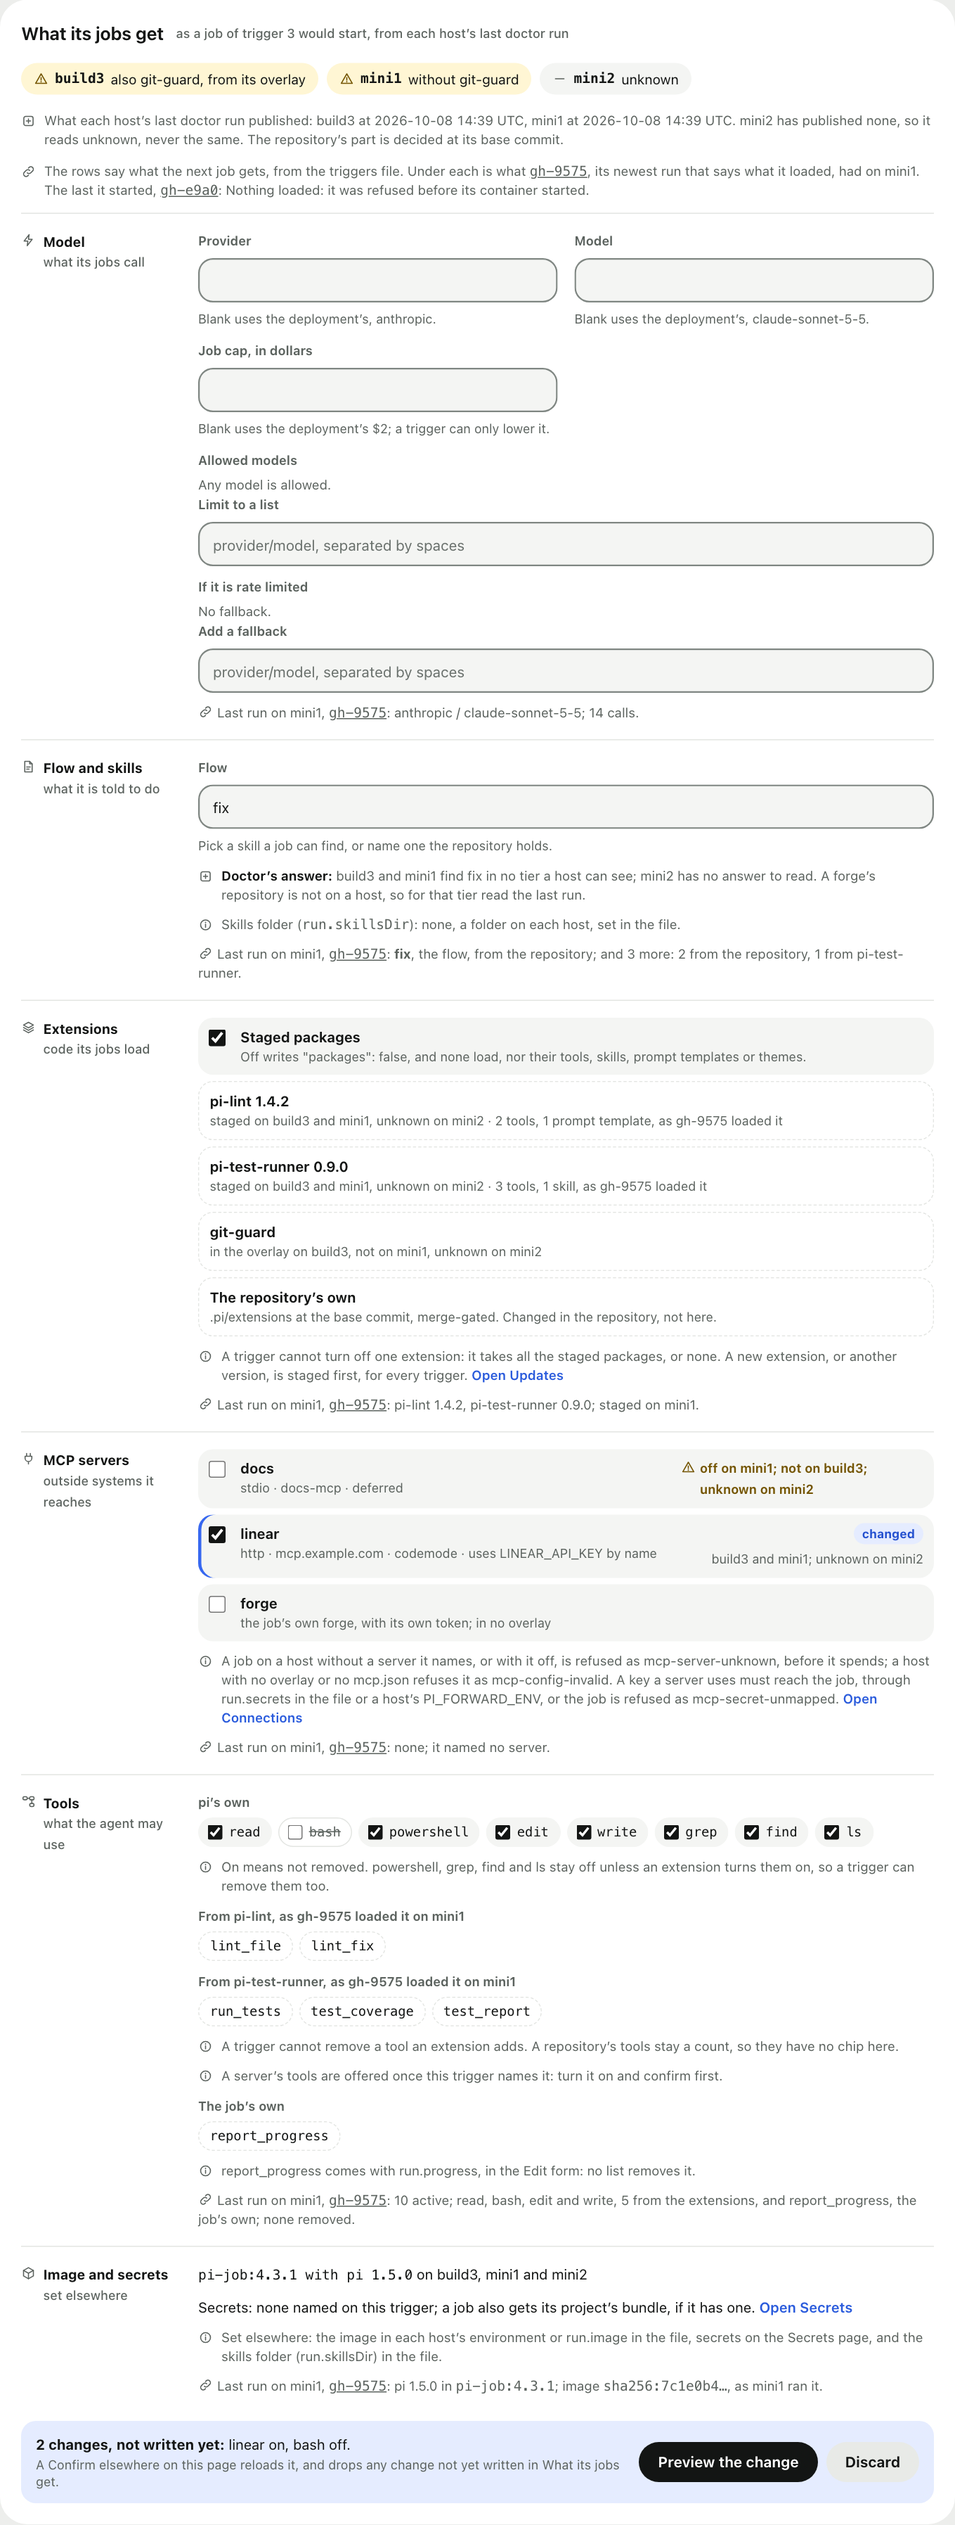
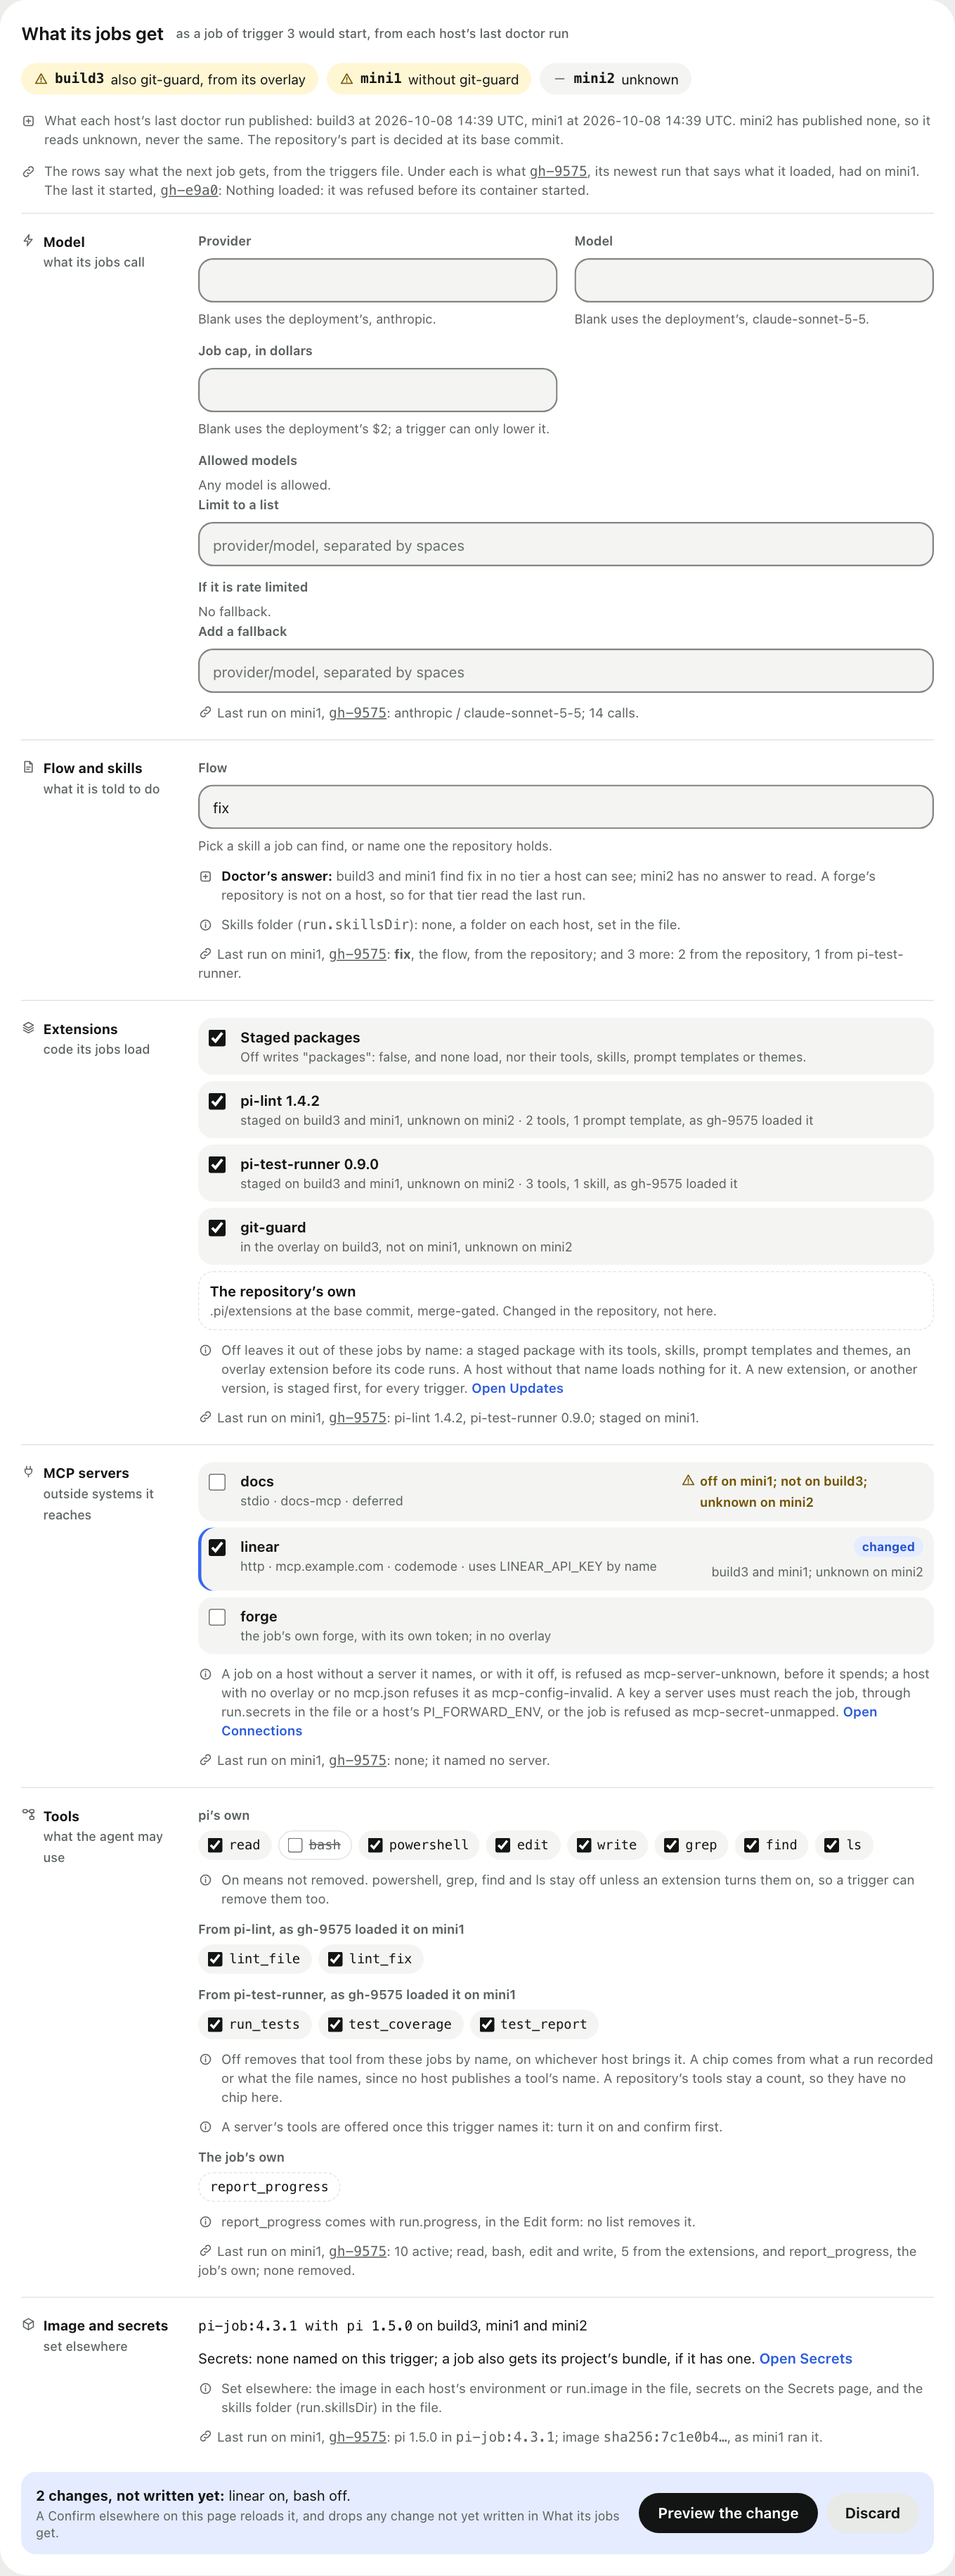
docs(readme): say a trigger can leave one extension or tool out, and what that is not (#800)
A person can leave one package or extension out of a trigger's jobs, and
remove one tool an extension adds, on the trigger's page. Neither README
said so, and readmes.test.mjs held its lists to the fields they did say.

Both READMEs now say it, in plain words above "For engineers" in the root
one. Each also says the two keys stop what a job loads on its own, not what
an agent that can run commands or write files can reach. Write sits beside
commands because pi's write tool takes any path at the pin, and the home
directory is 0777 in the image, so a shell is not the only way to the
settings file.

The root README's list of optional fields gains both keys, with the last
five fields in CARD_FIELDS order, and the sentence after it names all of
CARD_FIELDS. excludeTools is said as pi's own tools or an MCP server's,
because the loader refuses any other, and the docs index says the file
covers extensions too.

console-trigger is drawn again from panels/trigger-gets-changed.operator,
which holds a switch for each extension and for each tool one adds. It has a
new cache tag and alt text, and its chunks are IHDR, IDAT and IEND alone.

readmes.test.mjs loses README_CARD_FIELDS, so each list is held to the whole
of CARD_FIELDS. New bolts hold what each README says of the boundary, the
version the loader's table gives, every link into docs/exclude-tools.md, and
the alt text against the golden the picture comes from.

UNCHANGED, checked: console-trigger-change, whose preview
[…]

diff --git a/README.md b/README.md
@@ -405,7 +405,7 @@ A schedule also gets a button that fires it now ([triggers](docs/triggers.md)).
 
 <picture>
   <source media="(prefers-color-scheme: dark)" srcset="docs/images/console/console-trigger-dark.png?v=2026-11-05">
-  <img src="docs/images/console/console-trigger.png?v=2026-11-04-800c" alt="What its jobs get, on one trigger's page, with two changes not written yet: a pill per machine saying what differs or that it is unknown, then the model and its job cap, the flow, the staged packages, the outside systems with linear switched on, pi's own tools with bash off, the image and secrets, what the last run had under each, and a bar with Preview the change and Discard">
+  <img src="docs/images/console/console-trigger.png?v=2026-11-04-800e" alt="What its jobs get, on one trigger's page, with two changes not written yet: a pill per machine saying what differs or that it is unknown, then the model and its job cap, the flow, a switch for the staged packages and one for each of your extensions, the outside systems with linear switched on, pi's own tools with bash off and a switch for each tool your extensions add, the image and secrets, what the last run had under each, and a bar with Preview the change and Discard">
 </picture>
 
 **Your phone:** every page fits, for answering a question from wherever you are. The console listens only on its own machine
@@ -438,7 +438,8 @@ PI_GLOBAL_PI_DIR=/absolute/path/to/my-dispatch/pi-global
 | Your MCP servers, with credentials as references only | Secrets of any kind: the copy is read by jobs, so it holds none |
 
 **Read the list it prints.** An extension is code, and it runs in every job, beside work that may come from a stranger's issue text. Skip
-extensions with `--no-extensions`, or keep one trigger's jobs out of your packages with the switch on its page (`"packages": false` in the triggers file).
+extensions with `--no-extensions`, or keep one trigger's jobs out of all your packages, or out of one package or extension, with the switches on its page
+(`"packages": false` and `"excludeExtensions"` in the triggers file).
 
 Your projects still win. A job layers your setup under the project's own `.pi/` folder, so a project's skill replaces yours of the same
 name, and a small safety floor sits under both, which neither can remove. To add a language or a system tool rather than a pi setting, build
@@ -475,6 +476,10 @@ start with the same things as on your other machines, and one that has not told 
 match. Under each line is what a recent run really had, so a setting and what it did sit together. Nothing is saved while you click: your changes collect
 at the foot of the card, and you can discard them.
 
+**You can turn off one thing and keep the rest.** On a trigger's page you can turn off one of your packages or extensions, or one tool they add, for that
+trigger's jobs alone. That stops a job from loading it by itself, and does not lock it away: an agent that can run commands or write files may still bring it
+back ([what this does not stop](docs/exclude-tools.md#what-exclusion-does-not-stop)).
+
 **You see it in words first, and confirm once.** **Preview the change** says each change in a sentence, and says so when it gives
 jobs more than they had. It says when the change takes effect and which jobs already in line would be refused, warns about what would stop these jobs on the
 machine the console runs on, and says how to undo it. One
@@ -490,7 +495,8 @@ expensive for even one request under its cap, the page refuses the change and na
 If the page is out of date, it asks you to reload rather than write over someone else's change.
 
 **Some of this only a person sets.** The commands pi-dispatch gives an AI cannot set a trigger's job cap, the list of models its jobs may use, its fallback models,
-its outside systems, which tools its jobs lose or whether they load your packages: one that tries is refused before you are asked. You set those on the page,
+its outside systems, which tools its jobs lose, which of an extension's tools they lose, whether they load your packages or which of your packages or extensions
+they leave out: one that tries is refused before you are asked. You set those on the page,
 or your technical person sets them in the triggers file ([what the card can say, and what it refuses](docs/console.md#what-a-triggers-jobs-get)).
 They can still move a trigger's flow, provider and model, and only after you confirm.
 
@@ -710,17 +716,23 @@ live, and which the console and the panel can edit, or you by hand. Each entry i
 - `image`: this trigger's own job image ([job image](docs/job-image.md)).
 - `secrets`, `secretsProfile`, `secretBundle`: vault references, and a project's one shared environment ([secrets](docs/secrets.md#recipe-d-one-environment-for-a-whole-project)).
 - `mcp`, `forge`: MCP servers for its jobs ([MCP](docs/mcp.md)).
-- `excludeTools`: removes named built in tools ([excluded tools](docs/exclude-tools.md)).
 - `packages`: opts out of the staged pi packages ([workflows](docs/workflows.md)).
+- `excludeTools`: removes named tools of pi's own or an MCP server's ([excluded tools](docs/exclude-tools.md)).
+- `excludeExtensions`: leaves named staged packages and overlay extensions out of its jobs ([leaving one out](docs/exclude-tools.md#leaving-an-extension-out-runexcludeextensions)).
+- `excludeExtensionTools`: removes named tools an extension adds, and a name nothing registered can stop the job ([an extension's tools](docs/exclude-tools.md#an-extensions-tools-runexcludeextensiontools)).
 - `provider`, `model`: the model its jobs run on ([choosing the model](docs/triggers.md#choosing-the-model-and-the-turn-limit)).
 - `models`, `fallbackModels`, `maxCostUsd`: the models a job may call, the ones to try when one is rate limited, and its own dollar cap ([limiting models](docs/triggers.md#limiting-which-models-a-job-may-call), [fallback models](docs/model-failover.md), [a dollar cap](docs/triggers.md#a-dollar-cap-per-job)).
 - `replicas`: races independent sandboxes on one event ([replicas](docs/replicas.md)).
 - `waitFor`: holds a job, unstarted and unbilled, until a time or your own check ([waiting](docs/wait-for.md)).
 - `instructions`, `skillsDir`, `github`, `portfolio`: the rest are in [`docs/triggers.md`](docs/triggers.md#optional-run-fields).
 
-On a trigger's page in the console, a person changes `flow`, `provider`, `model`, `maxCostUsd`, `models`, `fallbackModels`, `mcp`, `packages` and
-`excludeTools` with one preview and one Confirm ([what a trigger's jobs get](docs/console.md#what-a-triggers-jobs-get)). The page writes this host's file,
+On a trigger's page in the console, a person changes `flow`, `provider`, `model`, `maxCostUsd`, `models`, `fallbackModels`, `mcp`, `packages`, `excludeTools`, `excludeExtensions` and
+`excludeExtensionTools` with one preview and one Confirm ([what a trigger's jobs get](docs/console.md#what-a-triggers-jobs-get)). The page writes this host's file,
 so on a fleet where each host keeps its own, a host keeps what it has until its copy changes. A few others have the page's Edit form. The rest change in the file, and editing the file works as it always has.
+
+`excludeExtensions` and `excludeExtensionTools` stop what a job loads on its own, not what an agent that can run commands or write files can reach
+([what exclusion does not stop](docs/exclude-tools.md#what-exclusion-does-not-stop)). A file that uses either needs `"version": 2`, so every host needs a release
+that reads a file's version first ([versions and older hosts](docs/exclude-tools.md#versions-and-older-hosts)).
 
 A whole project can get one environment from your secrets manager, granted once and read fresh at each job start. Quiet
 hours pause a repo or folder by weekday and timezone ([`docs/pause-windows.md`](docs/pause-windows.md)). The
@@ -935,7 +947,7 @@ These forges have one auth source each, a token you create, so setting theirs to
 
 **Triggers and flows:** [triggers](docs/triggers.md), [workflows](docs/workflows.md), [wait for](docs/wait-for.md),
 [pause windows](docs/pause-windows.md), [replicas](docs/replicas.md), [canary](docs/canary.md),
-[excluded tools](docs/exclude-tools.md), [MCP](docs/mcp.md), [global pi overlay](docs/global-pi-overlay.md).
+[excluded tools and extensions](docs/exclude-tools.md), [MCP](docs/mcp.md), [global pi overlay](docs/global-pi-overlay.md).
 
 **Money and machines:** [costs](docs/costs.md), [insights](docs/insights.md), [graph](docs/graph.md),
 [scoped limits](docs/scoped-limits.md), [projects](docs/projects.md), [allocation](docs/allocation.md),

diff --git a/admin/README.md b/admin/README.md
@@ -262,7 +262,7 @@ One command puts a live terminal view over the whole deployment:
   turning existing run flags off, cancellation, failed-job removal and bounded priorities. Scope, size,
   minimums, inherited limits and mixed widening requests stay confirmed. The deployment file and pointer
   cannot grant this authority. Answers, draft decisions, standing-answer adoption and forge reruns remain person actions, and no
-  `dispatch_*` tool can set a trigger's job cap, allowed models, fallbacks, MCP servers, tool exclusions or staged packages, while `dispatch_trigger_edit` can still move its flow, provider and model behind a confirm. A pi process's own `bash`, `write` and
+  `dispatch_*` tool can set a trigger's job cap, allowed models, fallbacks, MCP servers, tool exclusions, staged packages, extension exclusions or extension tool exclusions, while `dispatch_trigger_edit` can still move its flow, provider and model behind a confirm. A pi process's own `bash`, `write` and
   `edit` tools are outside this policy, so an unattended one must run with them disabled
   ([`SECURITY.md`](https://github.com/edgehero/pi-dispatch/blob/main/SECURITY.md)). Tool writes are audited as agents; human-confirmed intervention is tracked separately.
 - **Paid starts stay bounded.** `dispatch_run`, Fire now and local or cron reruns need explicit valid
@@ -374,8 +374,9 @@ The editor and its JSON fallback preserve the add tool's secret-bundle opt-out.
 
 **What its jobs get**, on a trigger's page, says what a job of it would start with on each host, with a label for each host, and under each row what
 a recent run really had. There a person changes the flow, the provider and model, the job cap, the allowed models and fallbacks, the MCP
-servers, the tools and the all-or-nothing switch for staged packages, with one preview that says each change in words, one Confirm, and
-Undo. A viewer reads the same rows with no controls, an agent's page draws no card, and no tool reaches the action. The file works as it
+servers, the tools, the all-or-nothing switch for staged packages, each extension the trigger leaves out and each extension's tool it removes, with one preview that
+says each change in words, one Confirm, and Undo. Those two stop what a job loads on its own, not what an agent that can run commands or write files can reach
+([what exclusion does not stop](../docs/exclude-tools.md#what-exclusion-does-not-stop)). A viewer reads the same rows with no controls, an agent's page draws no card, and no tool reaches the action. The file works as it
 always has ([`docs/console.md`](../docs/console.md#what-a-triggers-jobs-get)).
 
 `dispatch_trigger_edit` also takes `maxTurns` and the four run-option flags. `dispatch_trigger_fire(index)`
